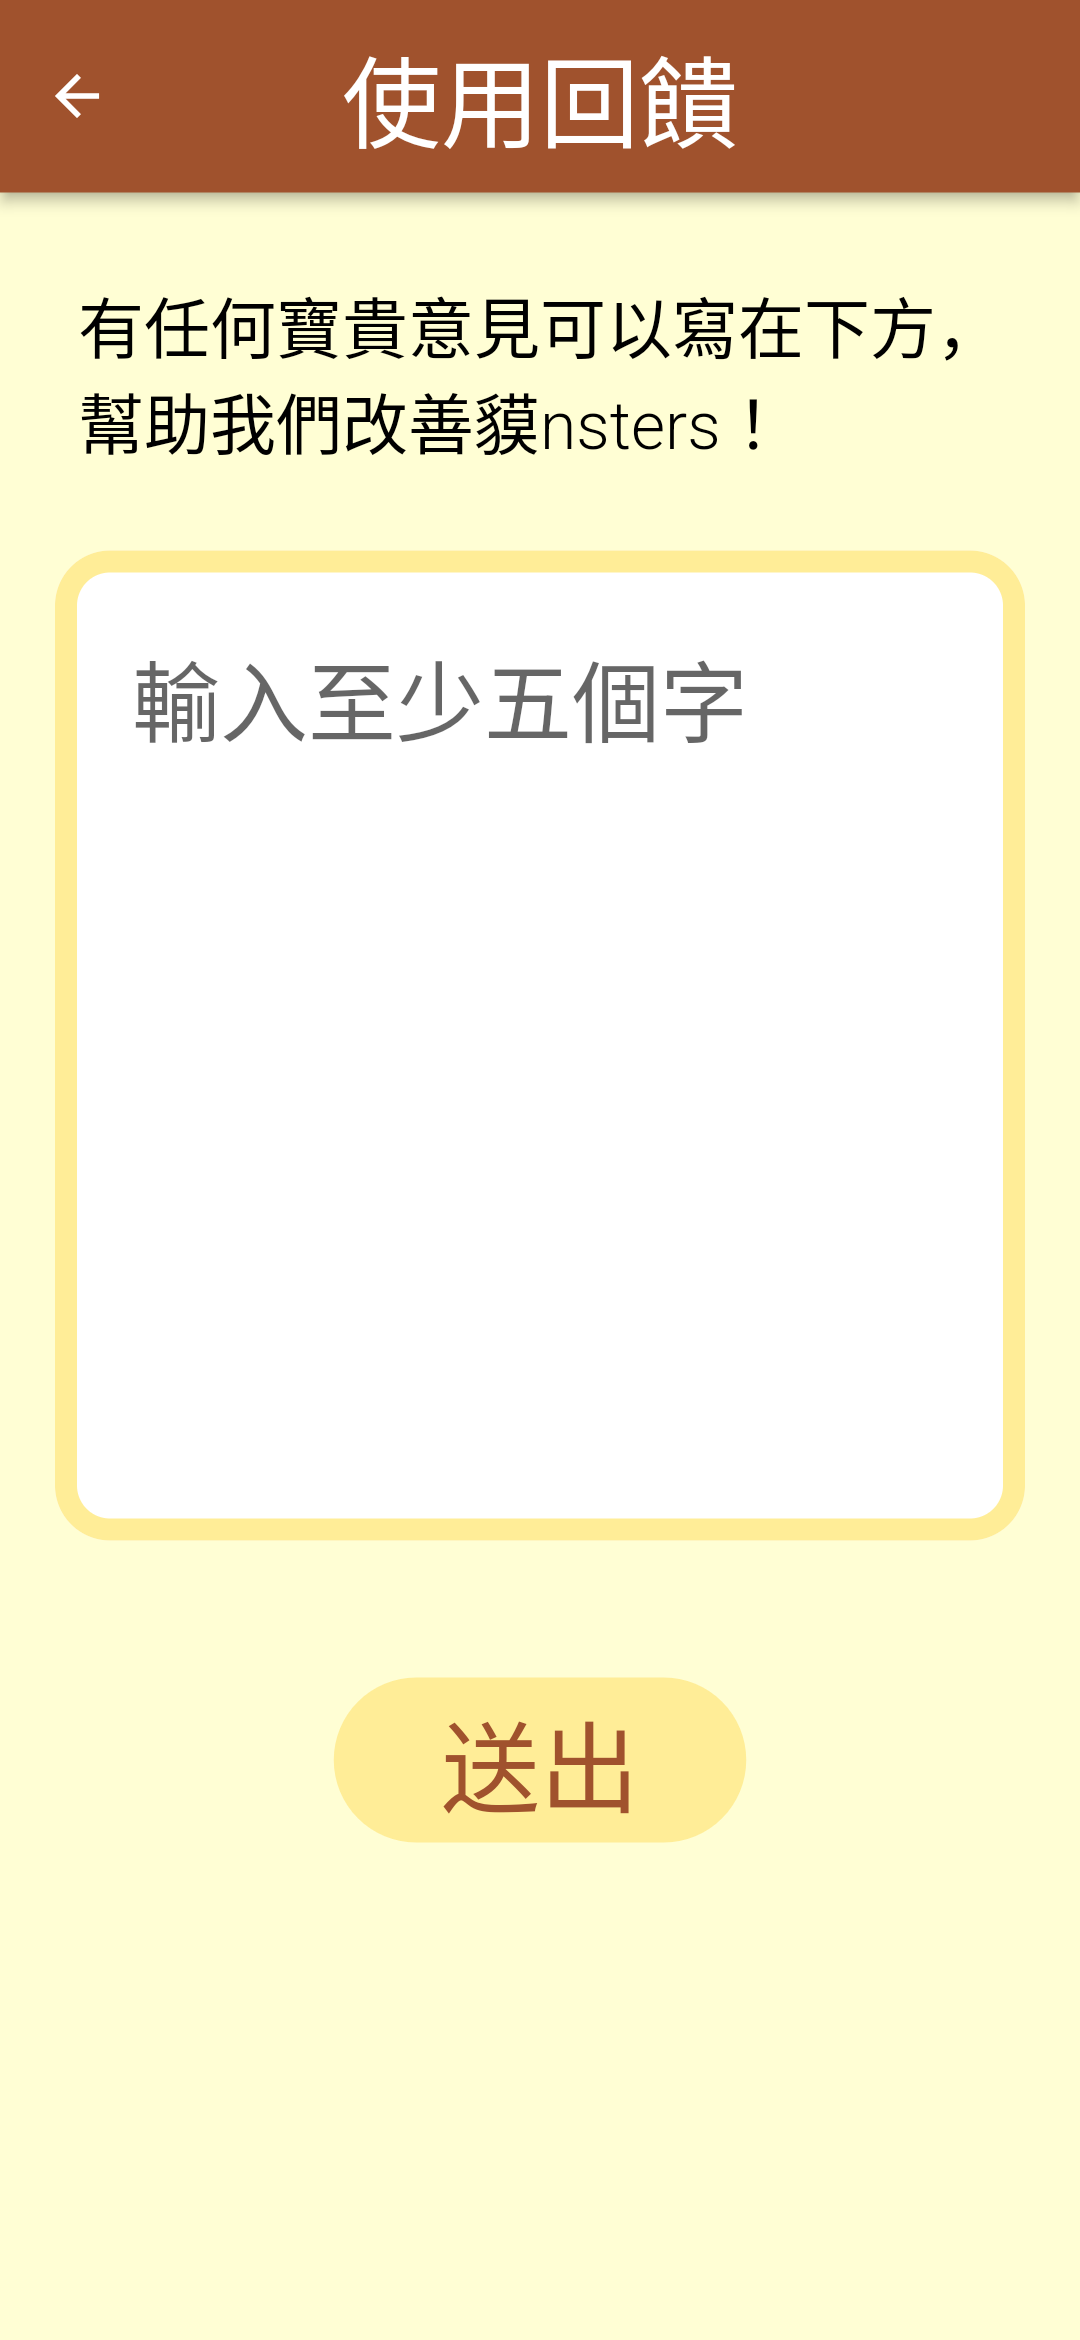
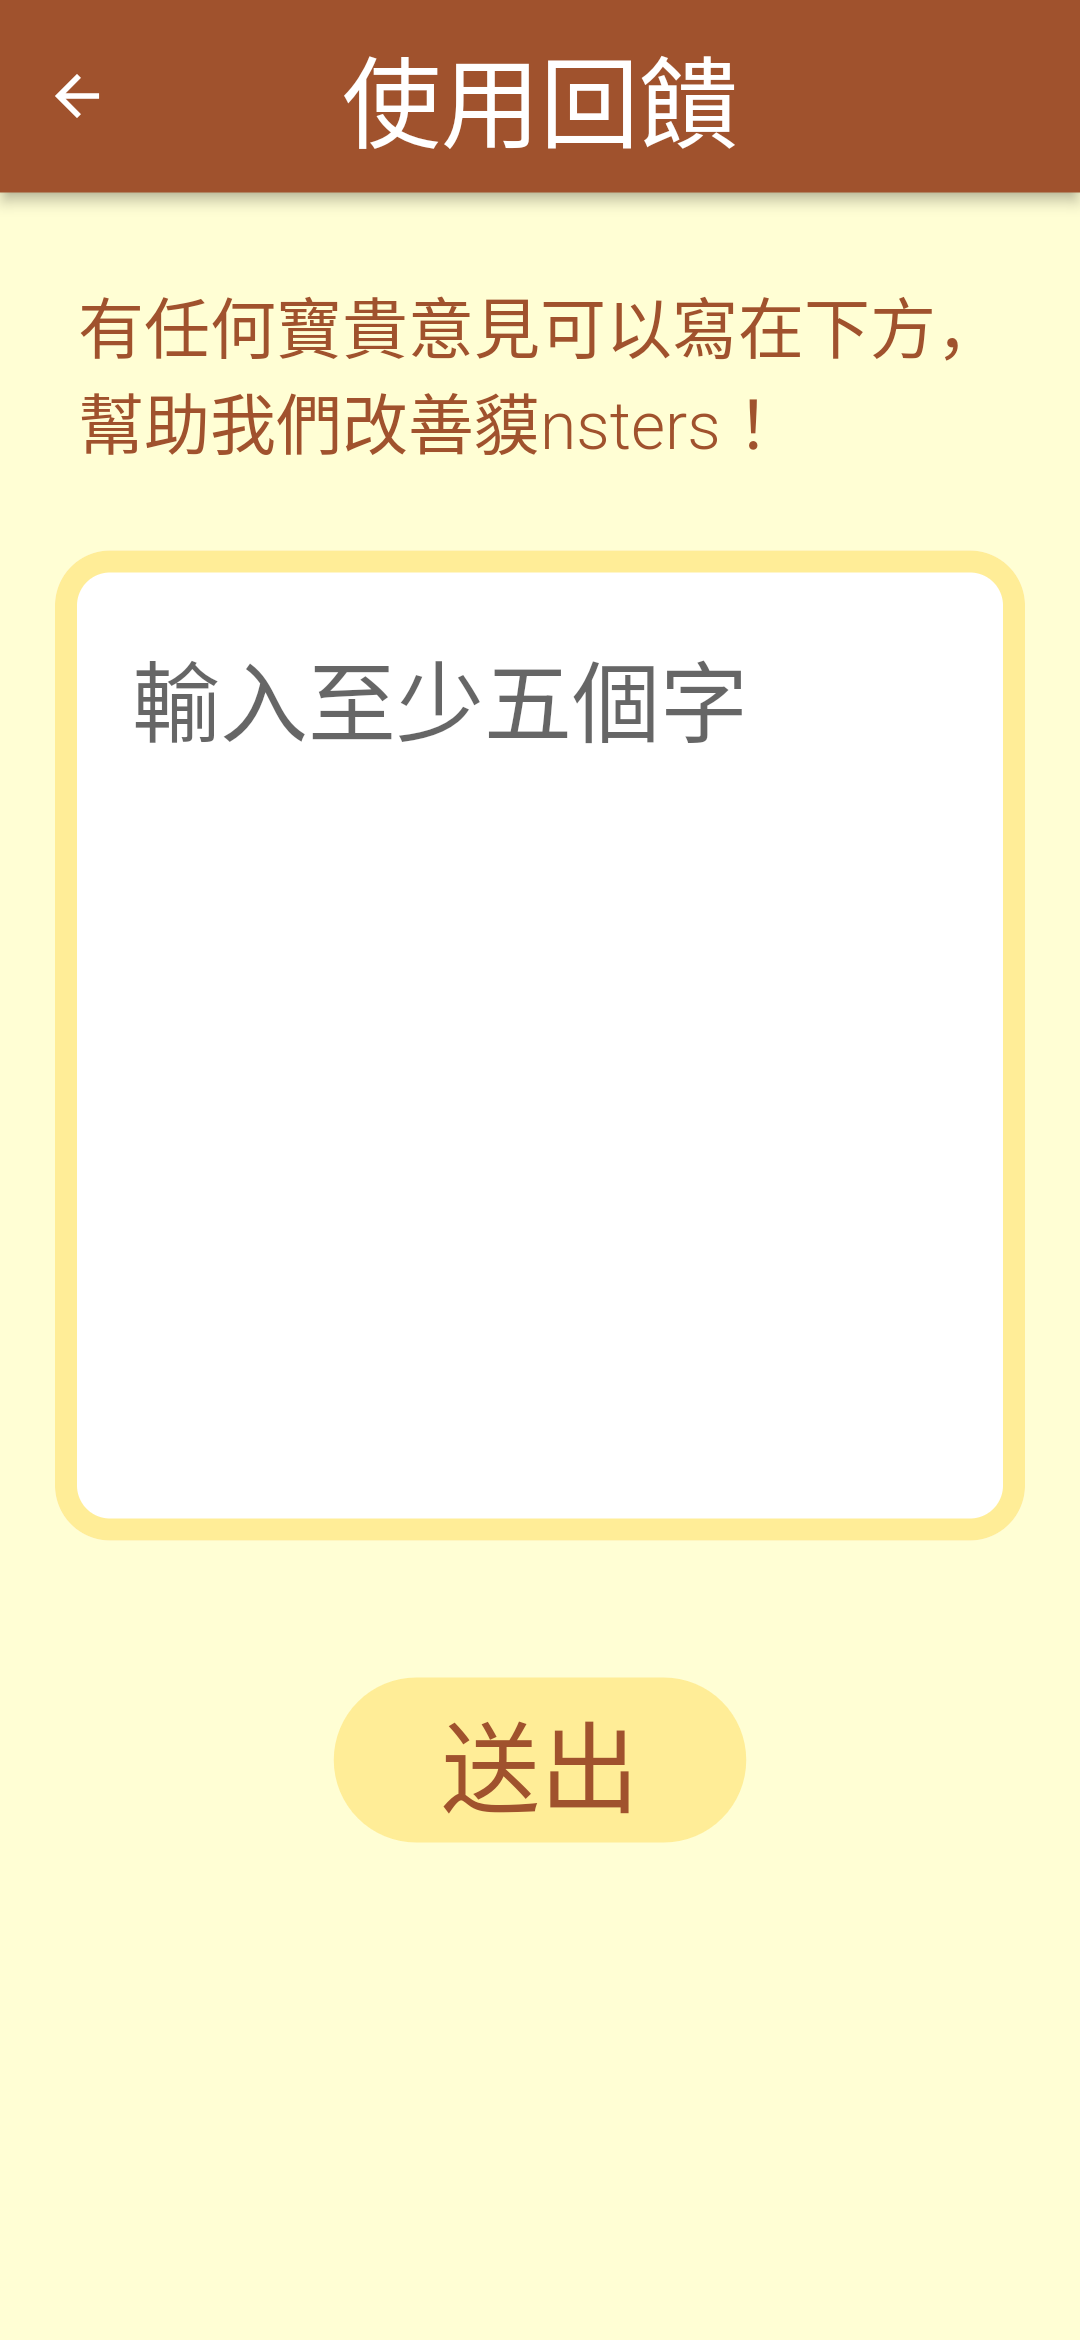
使用者回饋介面更新

Changed region(s): [[0.0611, 0.1248, 0.7333, 0.2184], [0.7639, 0.1248, 0.8556, 0.156]]

diff --git a/front-end/monsters_front_end/lib/pages/user_Feedback.dart b/front-end/monsters_front_end/lib/pages/user_Feedback.dart
@@ -38,7 +38,12 @@ class _user_FeedbackState extends State<user_Feedback> {
               const Padding(
                 padding: EdgeInsets.fromLTRB(20, 30, 20, 10),
                 child: Text("有任何寶貴意見可以寫在下方，\n幫助我們改善貘nsters ！",
-                    style: Body1TextStyle),
+                    style: TextStyle(
+                      fontFamily: FontNameDefault,
+                      fontWeight: FontWeight.w300,
+                      fontSize: BodyTextSize,
+                      color: Color.fromRGBO(160, 82, 45, 1),
+                    )),
               ),
               Container(
                   height: 15 * 24.0,
